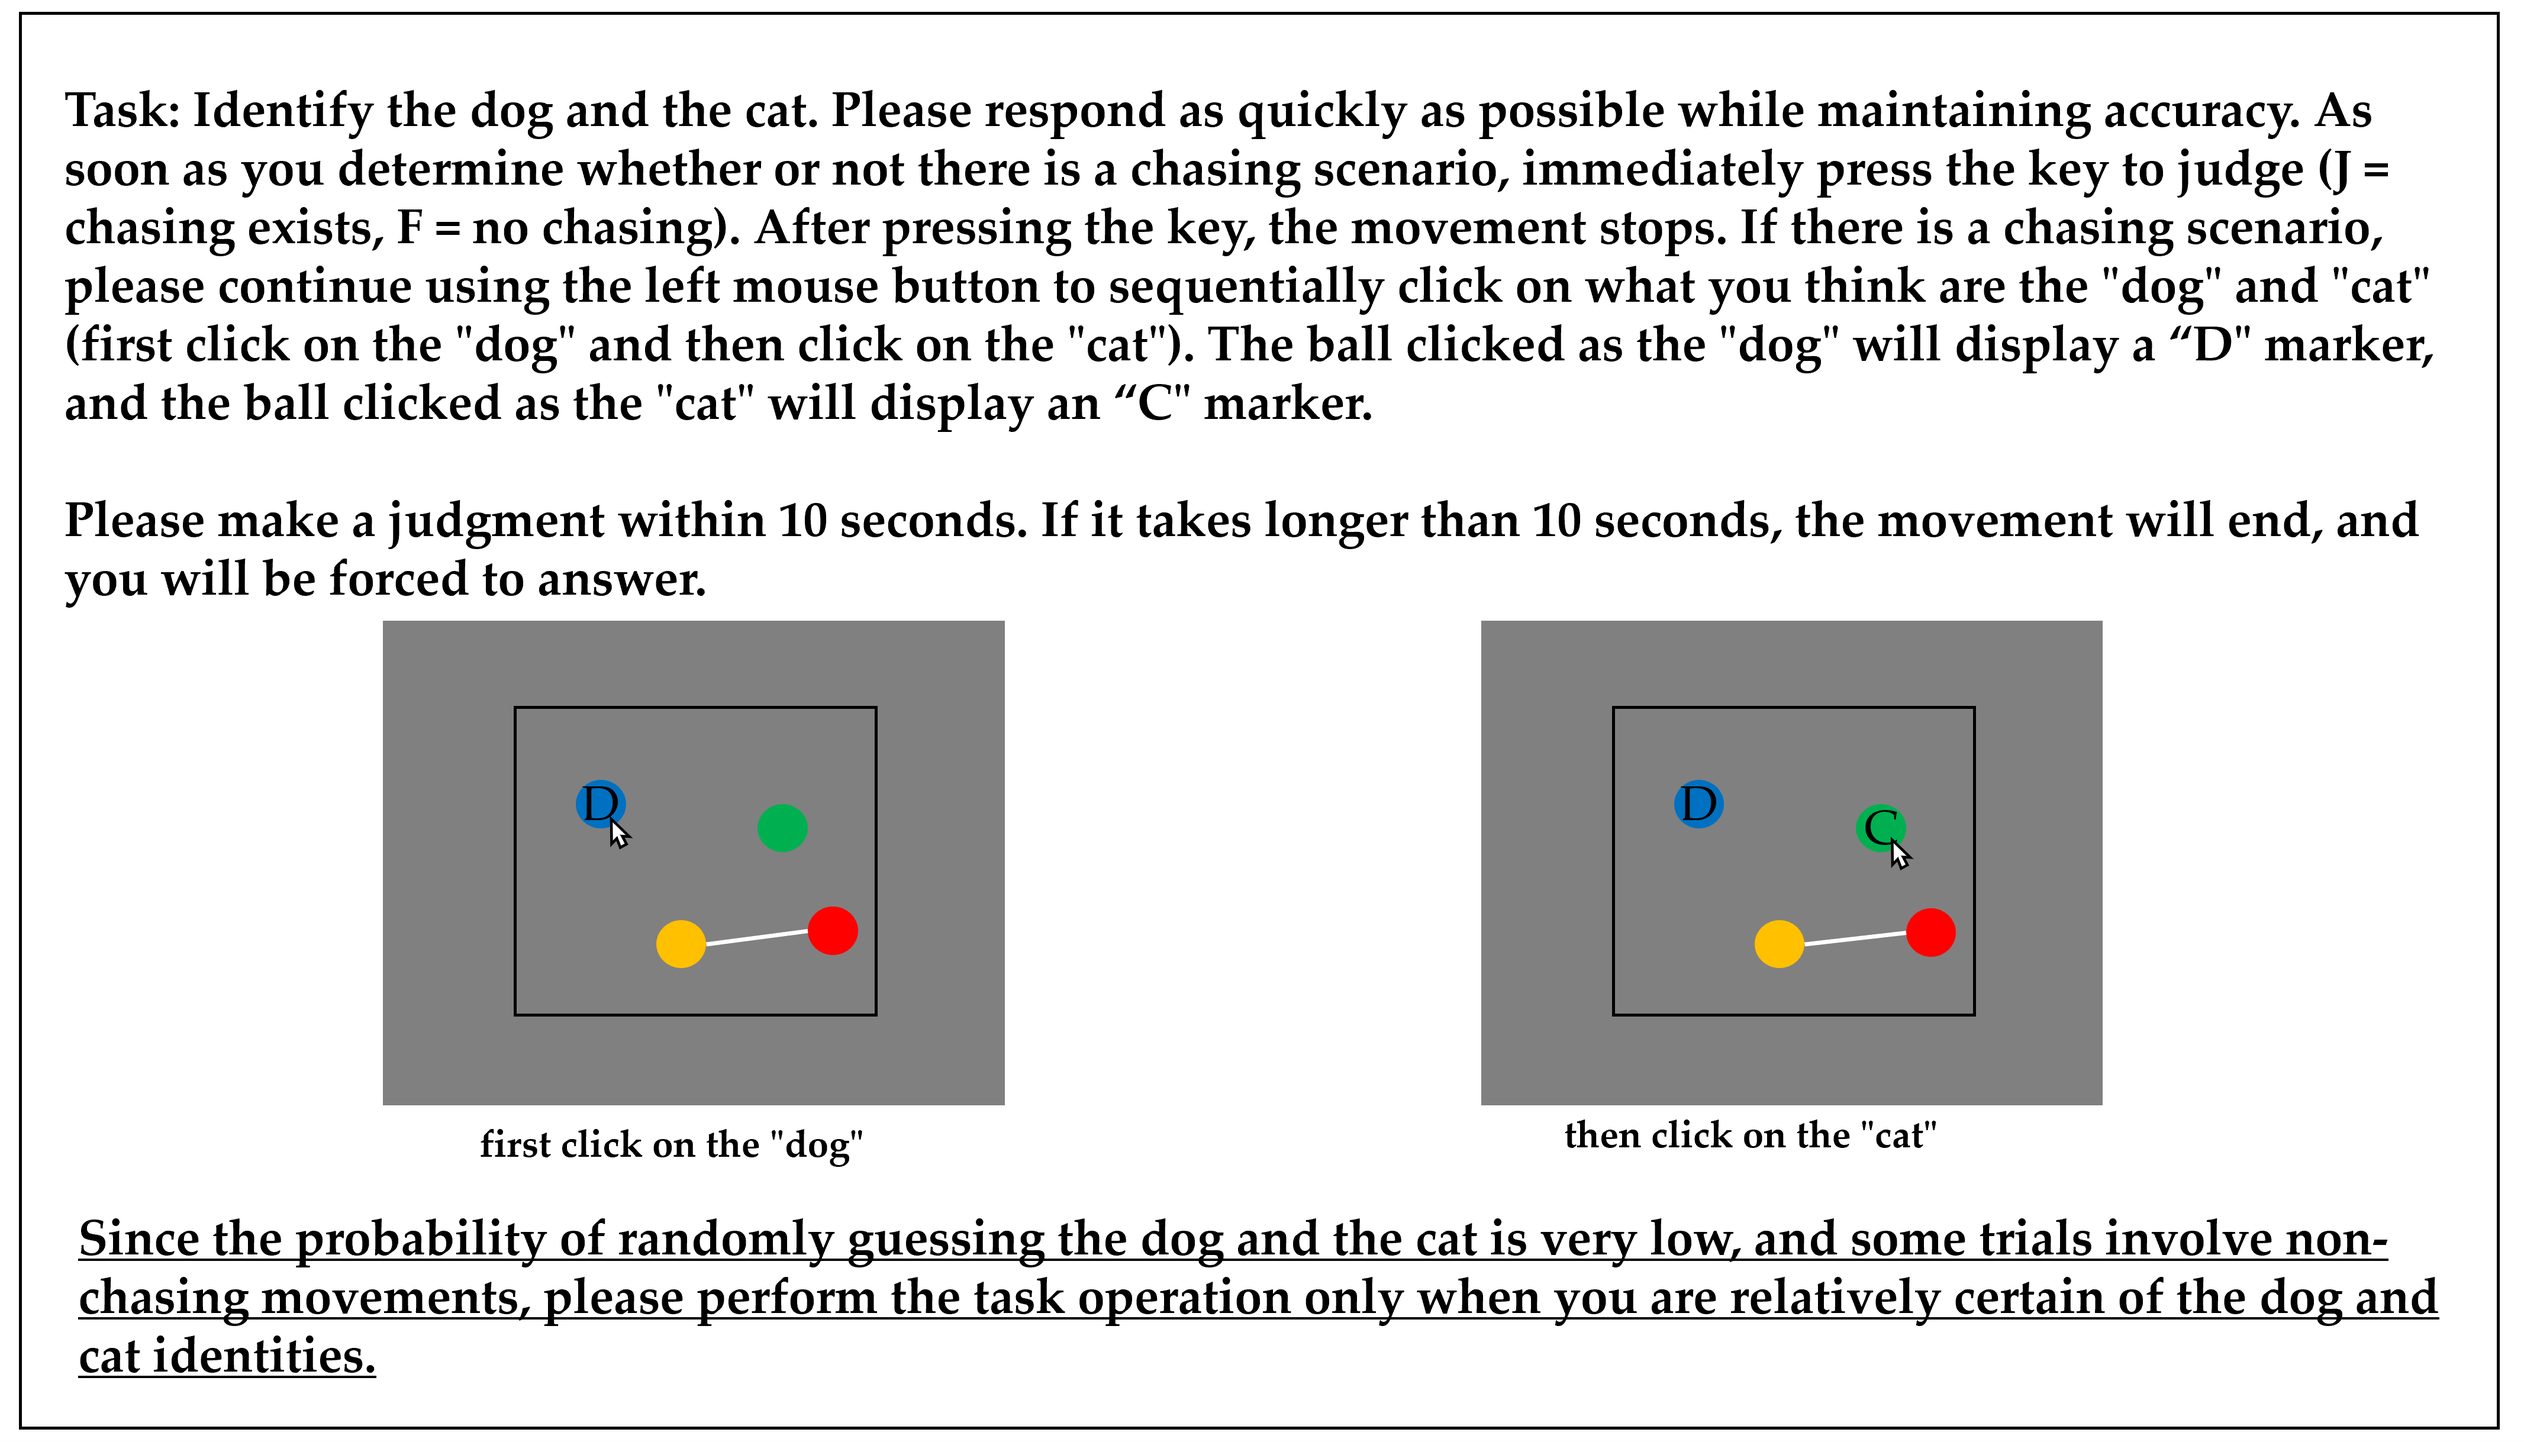
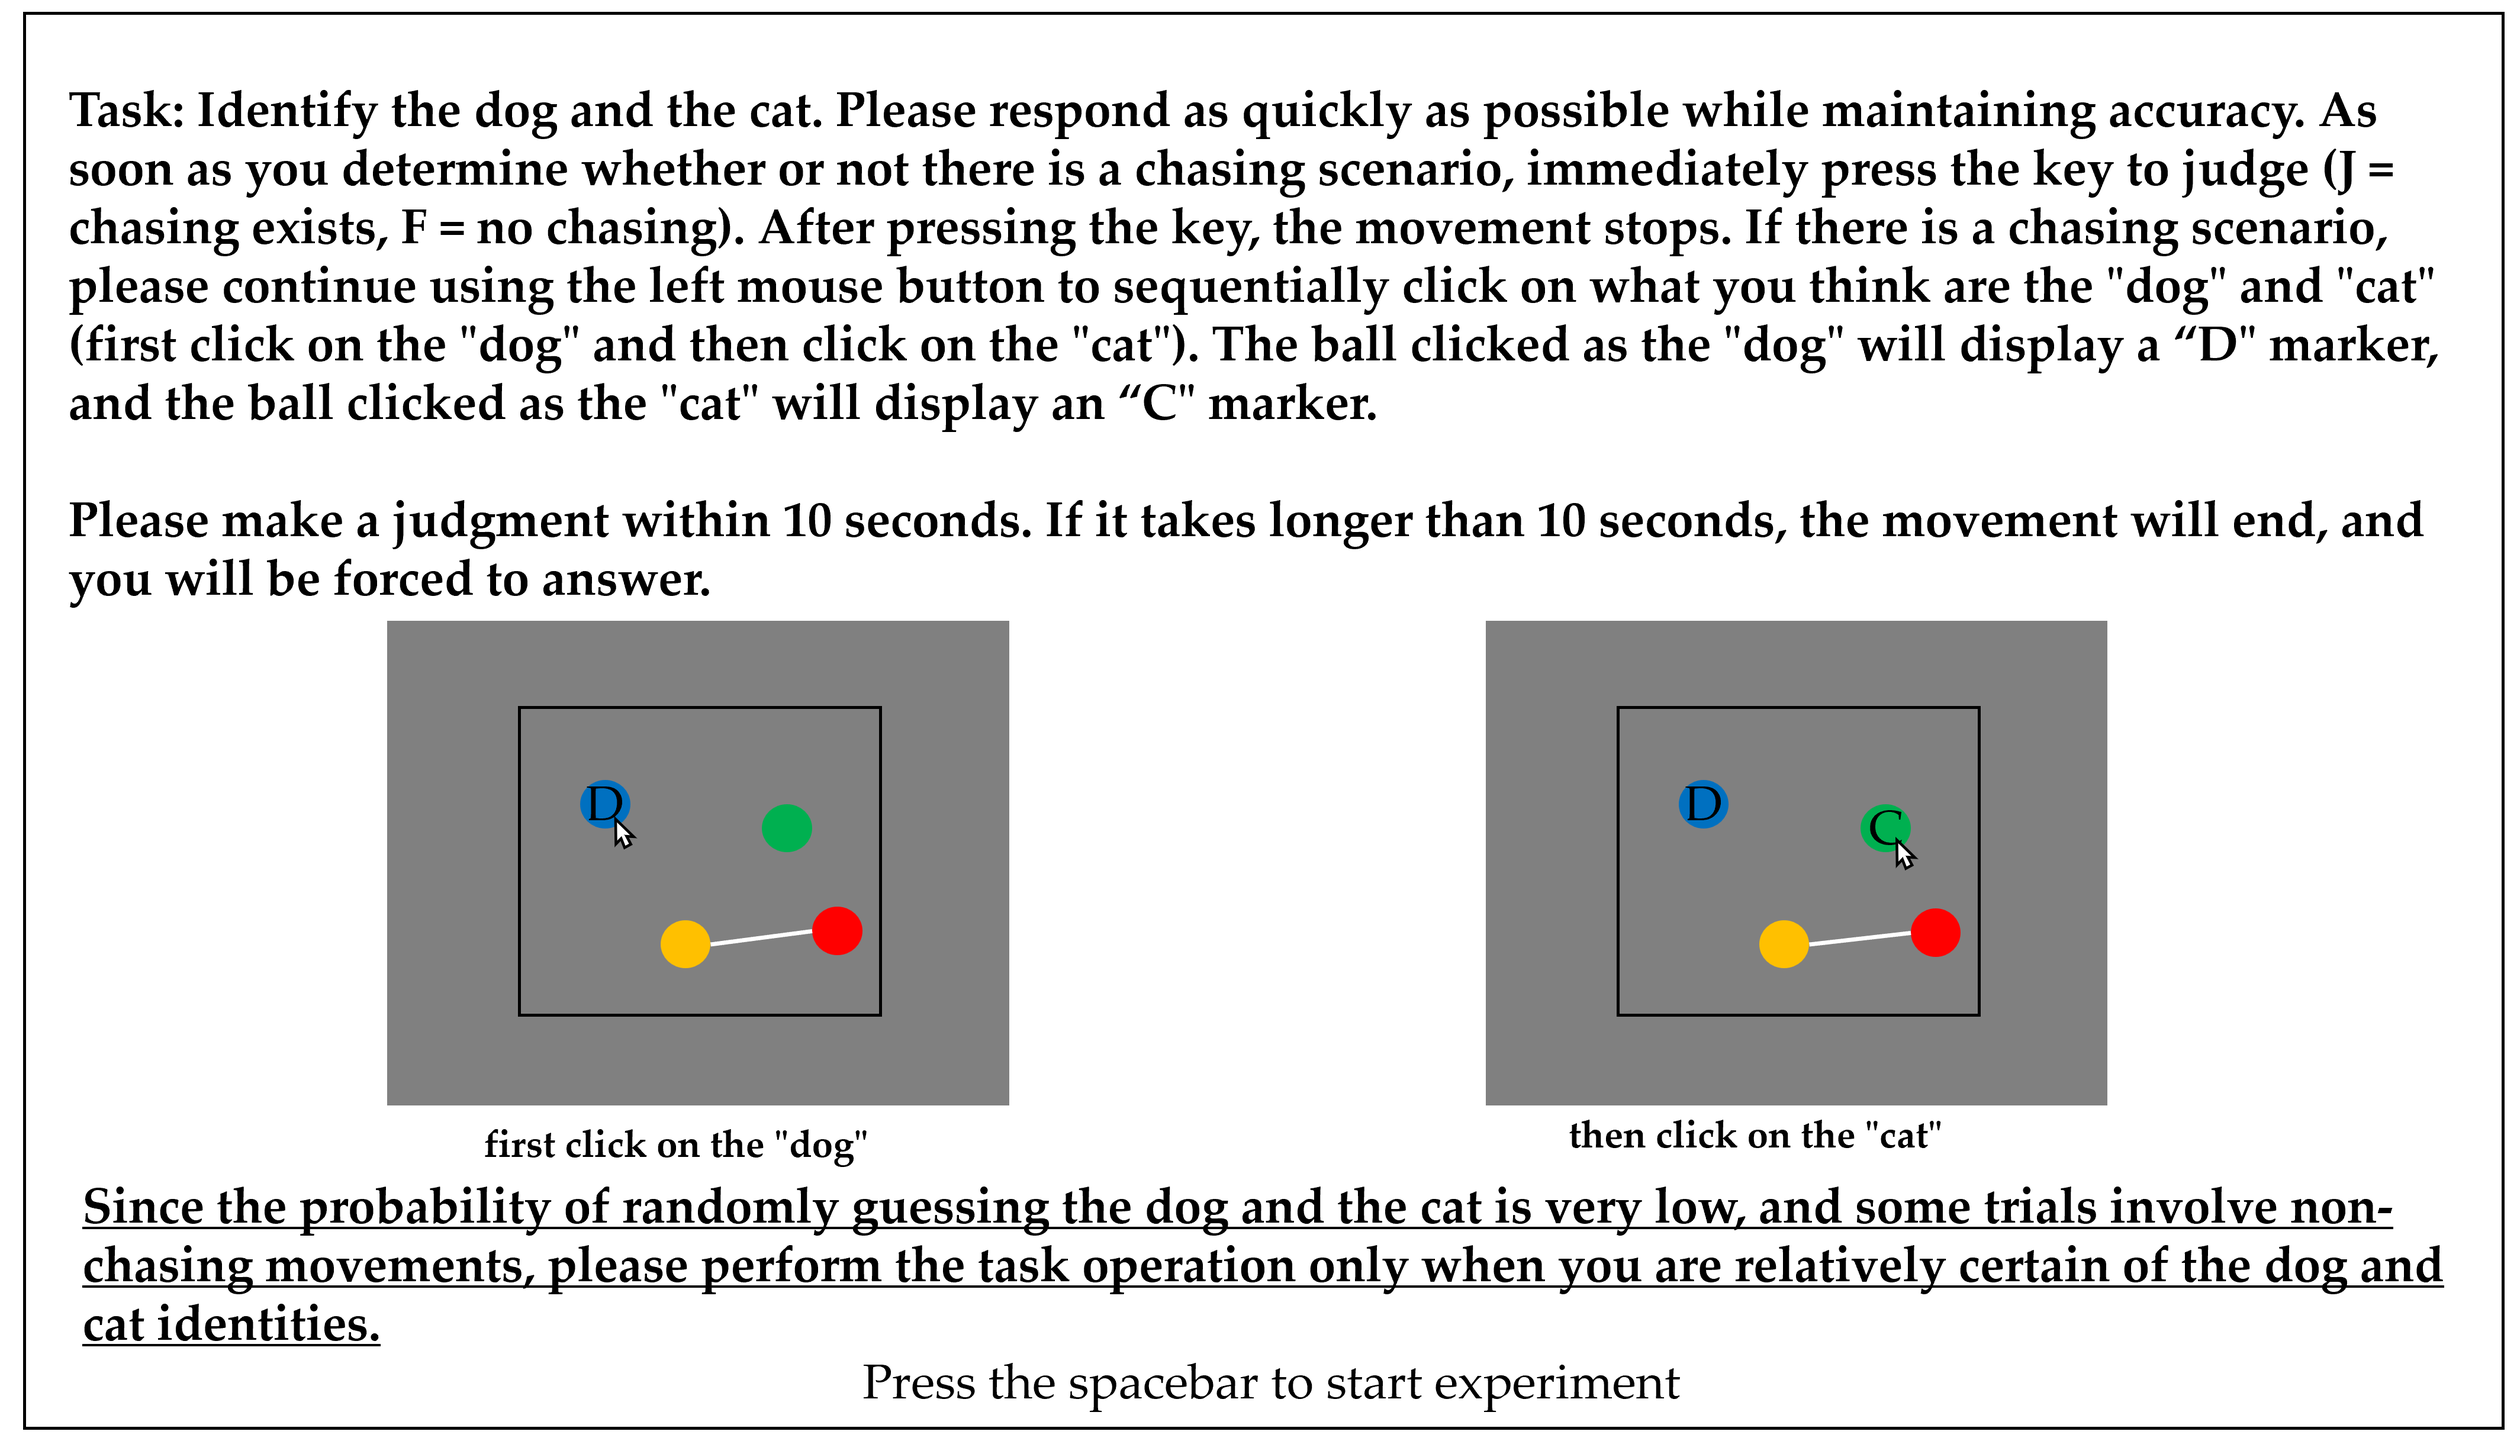
n

diff --git a/static/js/testExpLocal.js b/static/js/testExpLocal.js
@@ -28,7 +28,7 @@ var nTrials = trajData.length
 var introduction1 = {
   type: jsPsychHtmlKeyboardResponse,
   stimulus: `
-      <img src="static/images/onlineExp1.png" style = "width: 1050px; height: 600px"/>
+      <img src="static/images/onlineExp1.png" style = "width: 1000px; height: 600px"/>
     `,
   choices: " ",
   data: {type: 'introduction1'}
@@ -37,7 +37,7 @@ var introduction1 = {
 var introduction2 = {
   type: jsPsychHtmlKeyboardResponse,
   stimulus: `
-      <img src="static/images/onlineExp2.png" style = "width: 1050px; height: 600px"/>
+      <img src="static/images/onlineExp2.png" style = "width: 1000px; height: 600px"/>
     `,
   choices: " ",
   prompt: '<p style="font-size:20px;text-align: center;margin-top: -10px;bold;">Press the <strong>spacebar</strong> to start experiment.</p>',
@@ -51,7 +51,7 @@ var introduction2 = {
 var introductionVideo1 = {
   type: jsPsychHtmlKeyboardResponse,
   stimulus: `
-      <video src="static/demos/masterRealForce=7.5,angleOfDivergence=0.0,hideId=3.mp4" controls width="800" height="800" atuoplay="atuoplay"/>
+      <video src="static/demos/masterRealForce=7.5,angleOfDivergence=0.0,hideId=3.mp4" controls width="600" height="600" atuoplay="atuoplay"/>
     `,
   choices: " ",
   prompt: '<p style="font-size:20px;text-align: center;margin-top: -10px;bold;">Chasing example 1. Press the <strong>spacebar</strong> to continue(if you have watched the video).</p>',
@@ -60,7 +60,7 @@ var introductionVideo1 = {
 var introductionVideo2 = {
   type: jsPsychHtmlKeyboardResponse,
   stimulus: `
-      <video src="static/demos/masterRealForce=7.5,angleOfDivergence=30.0,hideId=3.mp4" controls width="800" height="800" atuoplay="atuoplay"/>
+      <video src="static/demos/masterRealForce=7.5,angleOfDivergence=30.0,hideId=3.mp4" controls width="600" height="600" atuoplay="atuoplay"/>
     `,
   choices: " ",
   prompt: '<p style="font-size:20px;text-align: center;margin-top: -10px;bold;">Chasing example 2. Press the <strong>spacebar</strong> to continue(if you have watched the video).</p>',
@@ -69,7 +69,7 @@ var introductionVideo2 = {
 var introductionVideo3 = {
   type: jsPsychHtmlKeyboardResponse,
   stimulus: `
-      <video src="static/demos/masterRealForce=7.5,angleOfDivergence=0.0,hideId=1.mp4" controls width="800" height="800" atuoplay="atuoplay"/>
+      <video src="static/demos/masterRealForce=7.5,angleOfDivergence=0.0,hideId=1.mp4" controls width="600" height="600" atuoplay="atuoplay"/>
     `,
   choices: " ",
   prompt: '<p style="font-size:20px;text-align: center;margin-top: -10px;bold;">No-Chasing example 1. Press the <strong>spacebar</strong> to continue(if you have watched the video).</p>',
@@ -78,7 +78,7 @@ var introductionVideo3 = {
 var introductionVideo4 = {
   type: jsPsychHtmlKeyboardResponse,
   stimulus: `
-      <video src="static/demos/masterRealForce=7.5,angleOfDivergence=30.0,hideId=1.mp4" controls width="800" height="800" atuoplay="atuoplay"/>
+      <video src="static/demos/masterRealForce=7.5,angleOfDivergence=30.0,hideId=1.mp4" controls width="600" height="600"  atuoplay="atuoplay"/>
     `,
   choices: " ",
   prompt: '<p style="font-size:20px;text-align: center;margin-top: -10px;bold;">No-Chasing example 2. Press the <strong>spacebar</strong> to continue(if you have watched the video).</p>',
